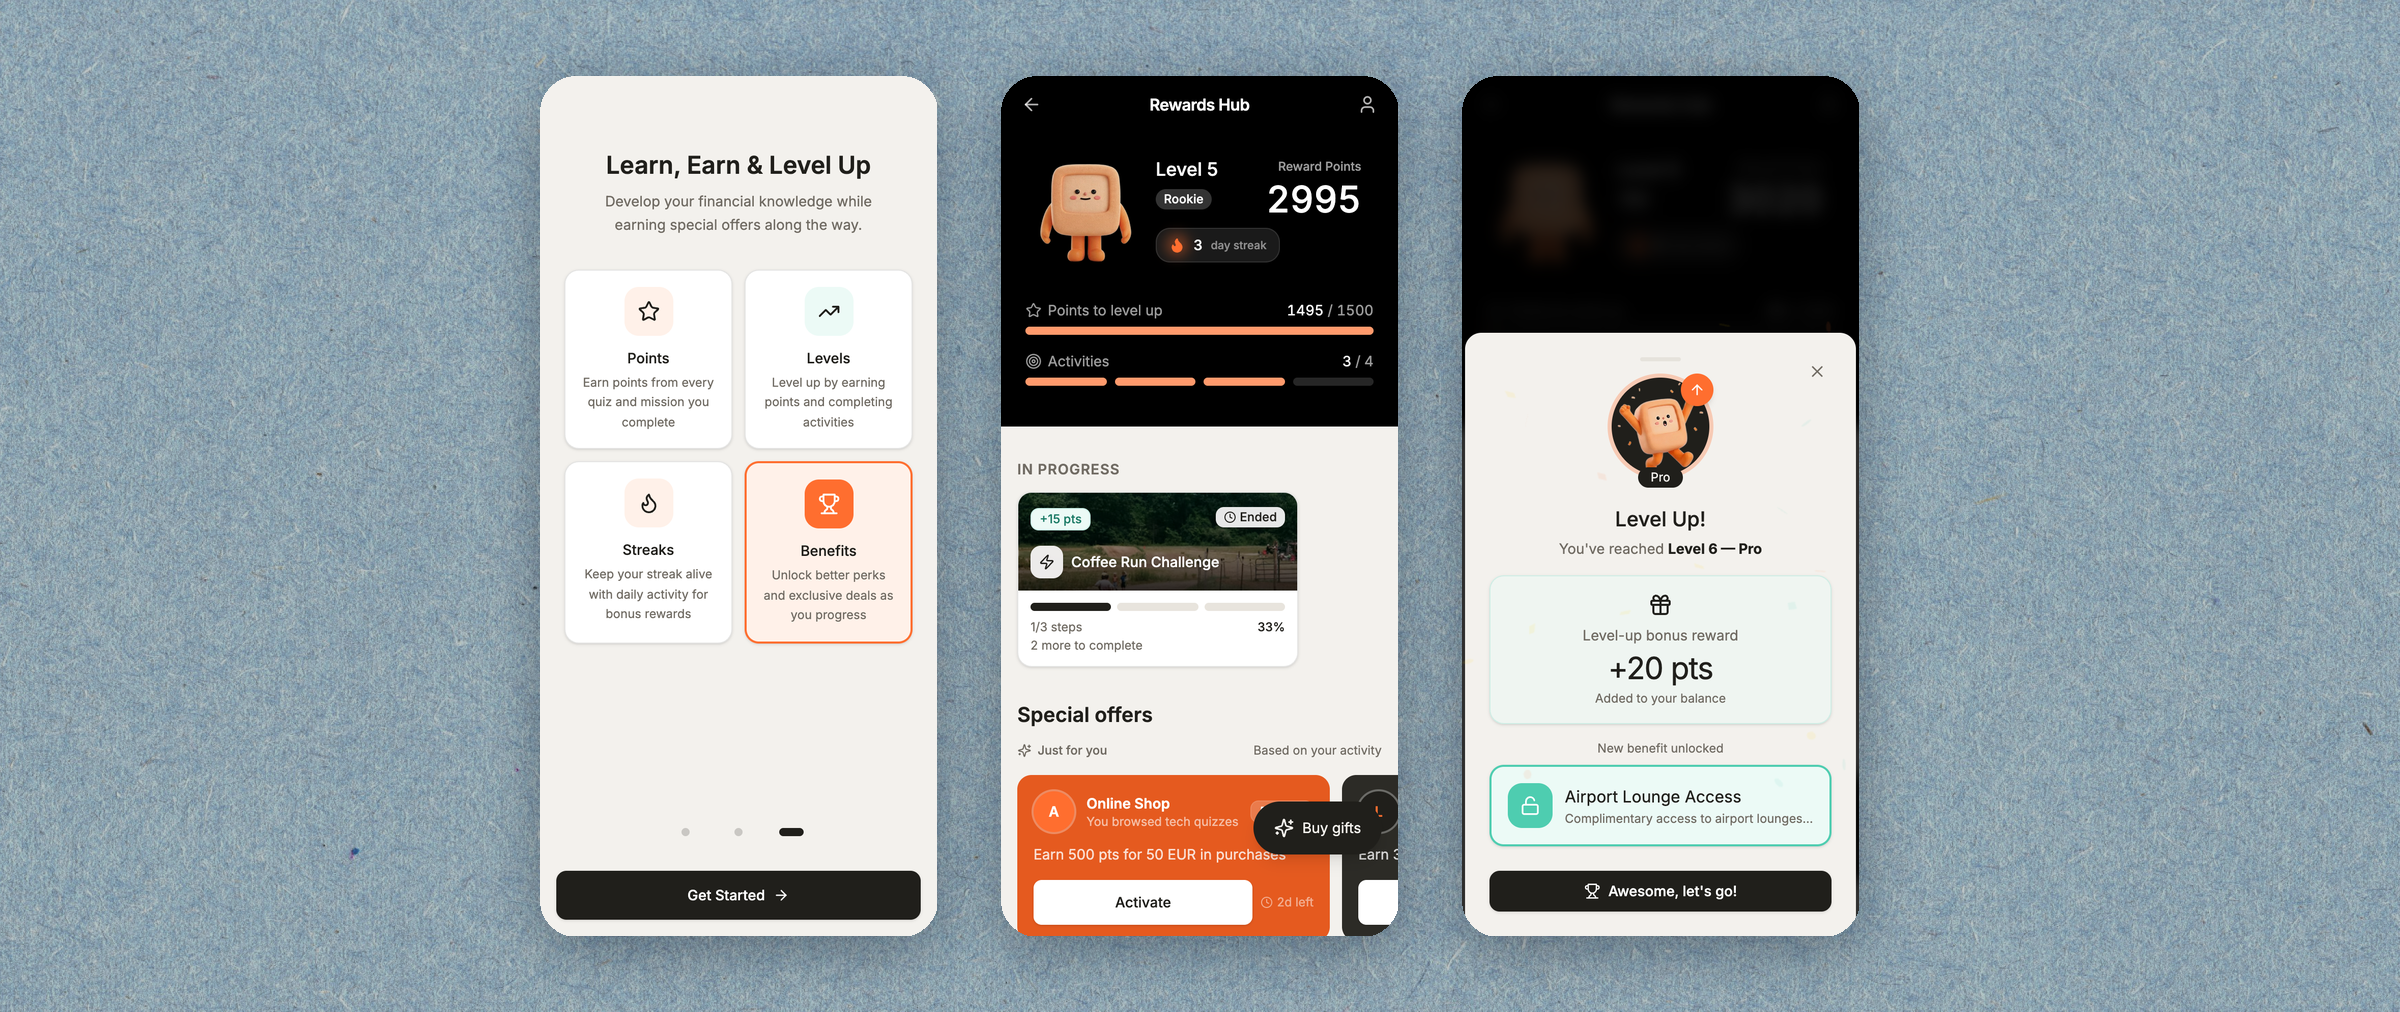
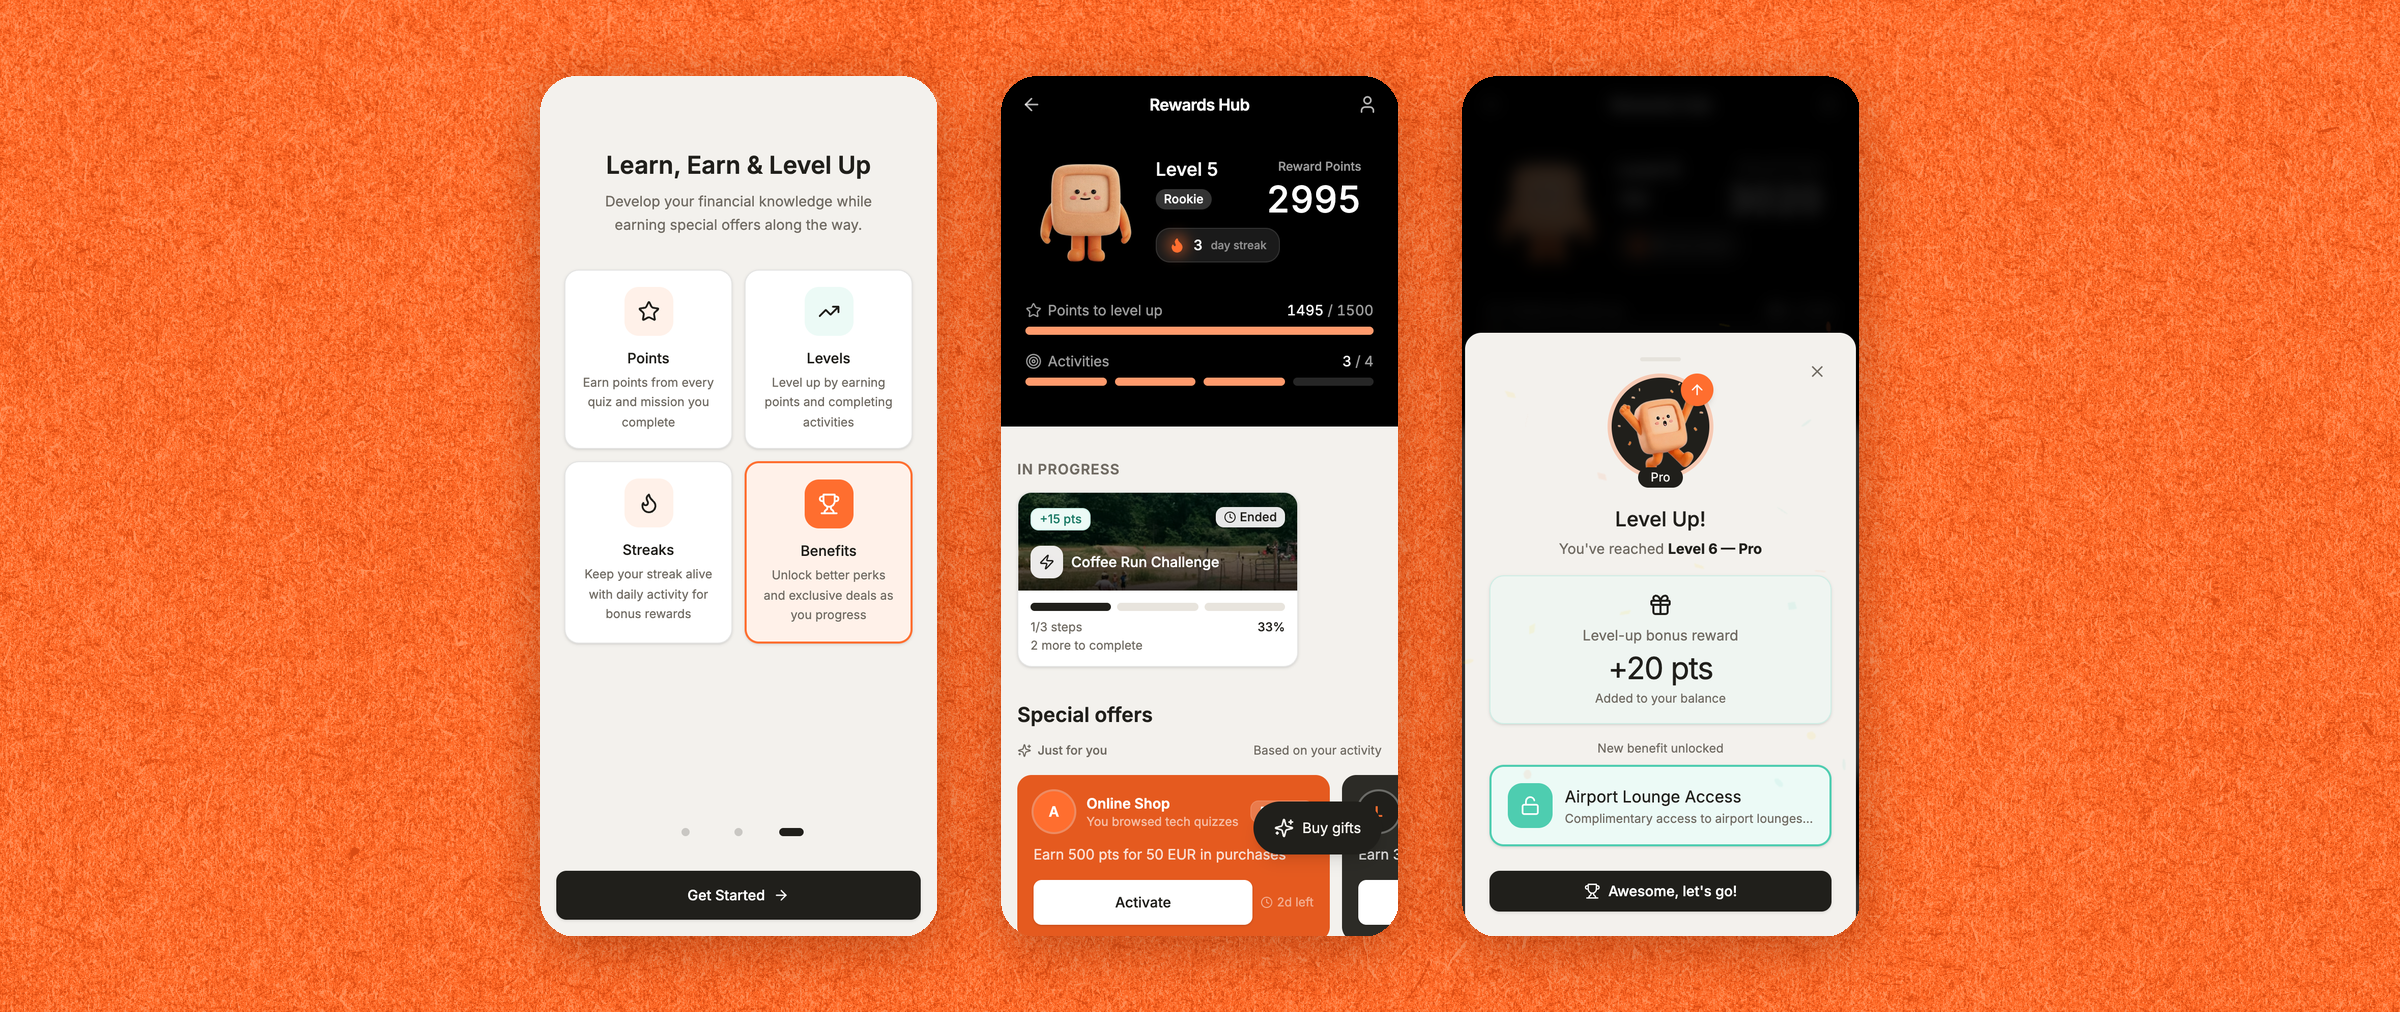
style: orange image backgrounds for Enlight, remove card images on work page

diff --git a/index.html b/index.html
@@ -307,7 +307,7 @@
   }
 
   /* Dark tiles that sit just above the page ground, so the work list
-     doesn't glare; the hero image carries the color. */
+     doesn't glare. */
   .col {
     flex: 0 0 47%;
     min-width: 450px;
@@ -353,14 +353,6 @@
     margin: 0;
   }
 
-  .col-img {
-    display: block;
-    width: 100%;
-    min-height: 0;
-    flex: 1 1 auto;
-    object-fit: cover;
-    border-radius: 10px;
-  }
 
   .tags {
     display: flex;
@@ -961,7 +953,6 @@
                 <p class="summary">Making log search, pipelines and agent configuration approachable for new users, without losing the depth experts rely on.</p>
                 <div class="tags"><span>Log Management</span><span>Enterprise SaaS</span></div>
               </div>
-              <img class="col-img" src="images/nxlog/01.png" alt="" loading="lazy">
             </a>
             <a class="col" href="#work/enlight" aria-label="Turning an Idea into a Financial Engagement Product. Tags: Fintech, Gamification">
               <div class="col-text" aria-hidden="true">
@@ -969,7 +960,6 @@
                 <p class="summary">Defining a gamified financial-education module for banks, from a strategy workshop to a points system that means something.</p>
                 <div class="tags"><span>Fintech</span><span>Gamification</span></div>
               </div>
-              <img class="col-img" src="images/enlight/01.png" alt="" loading="lazy">
             </a>
           </div>
         </div>
